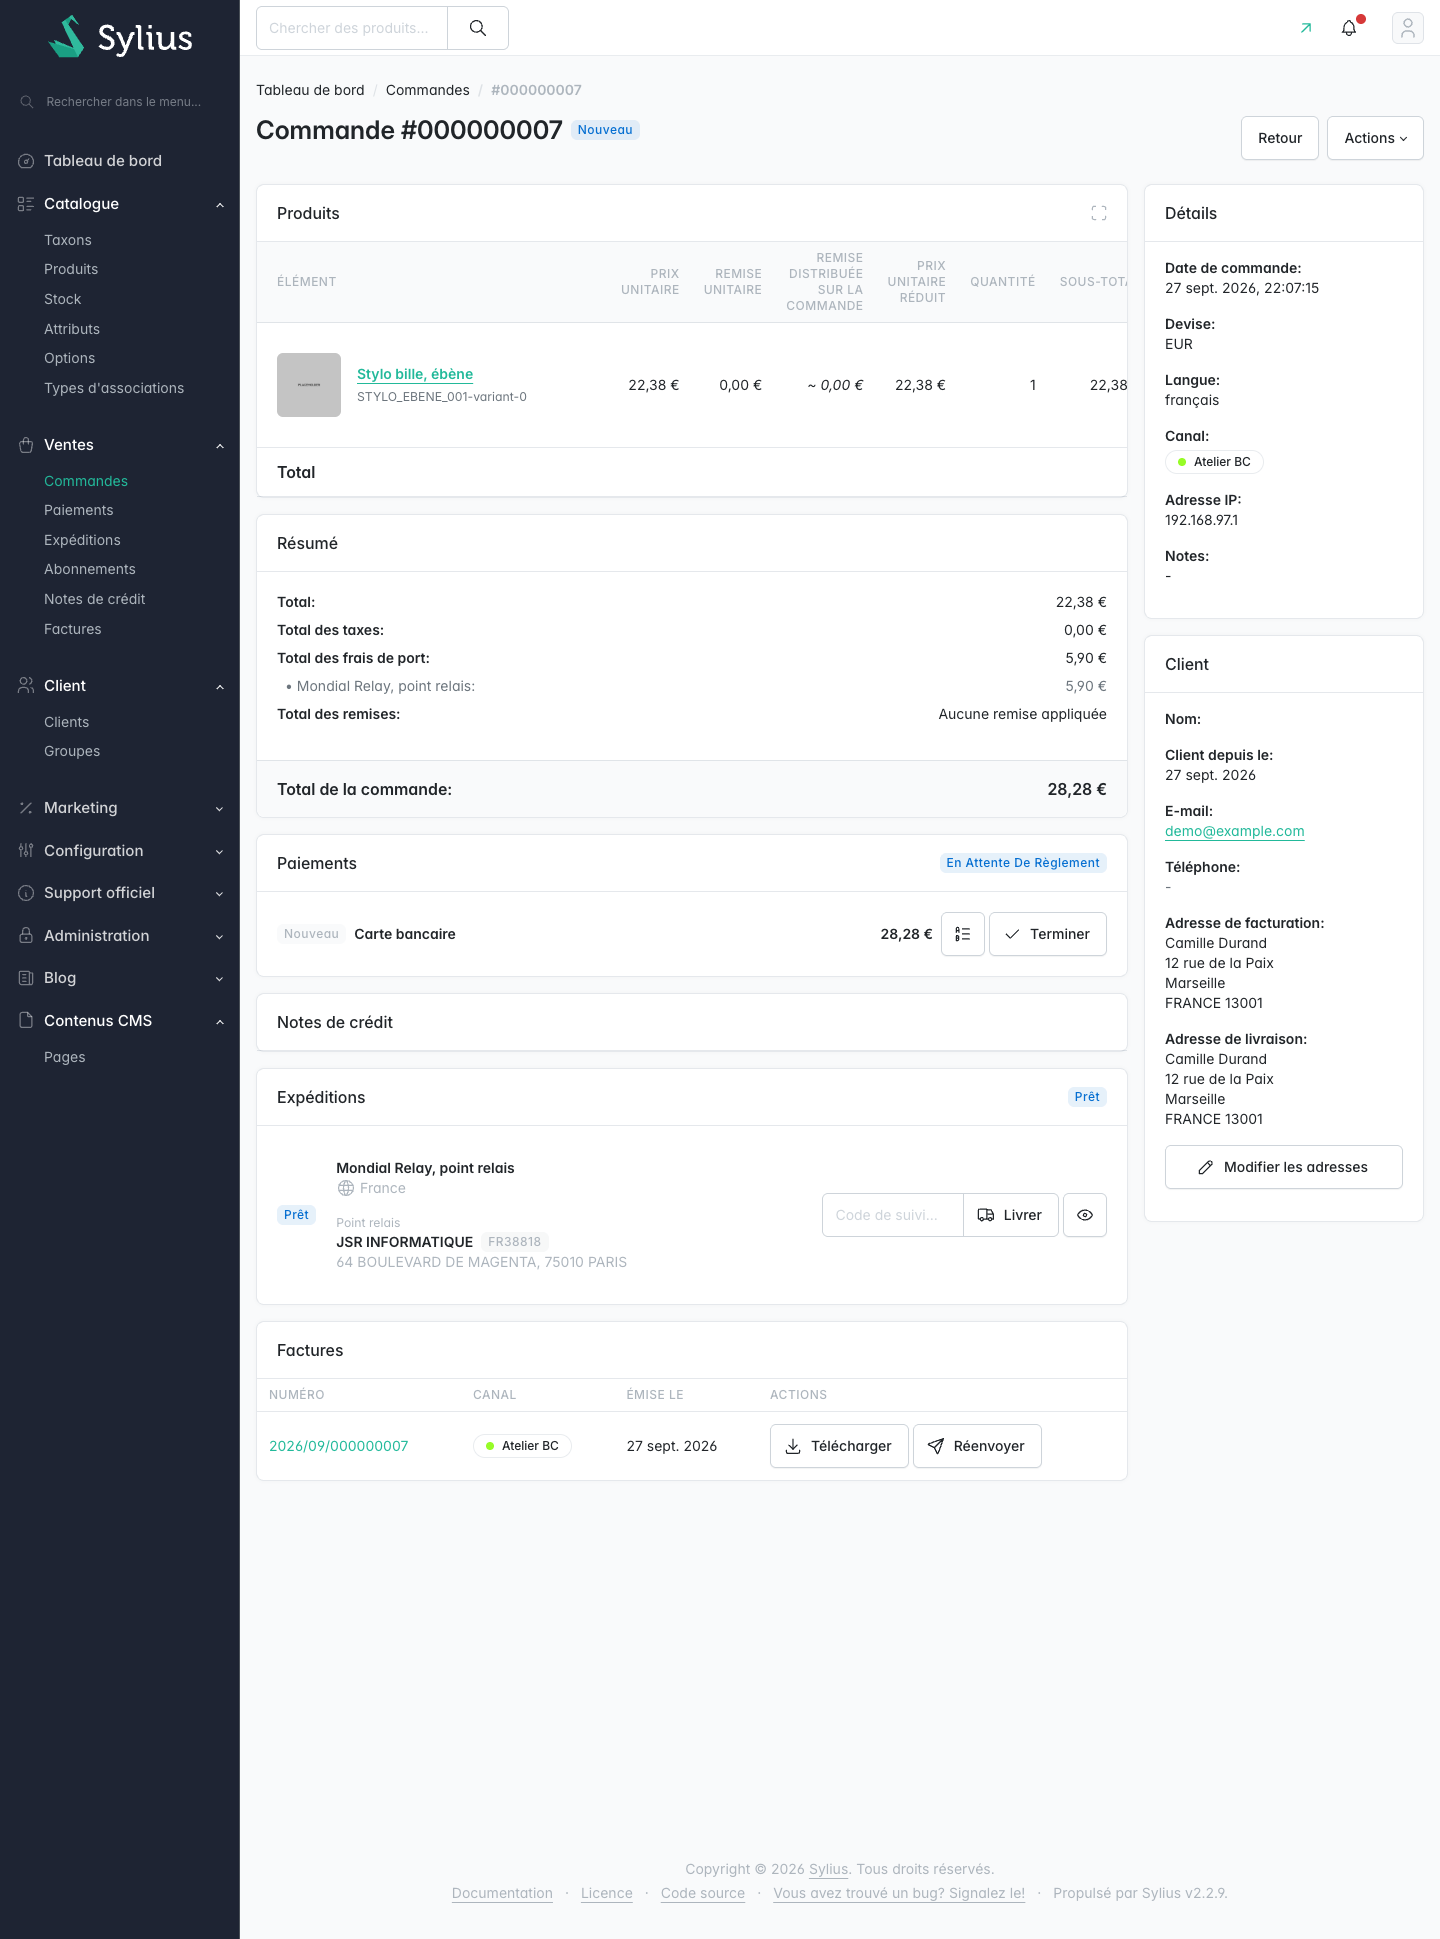
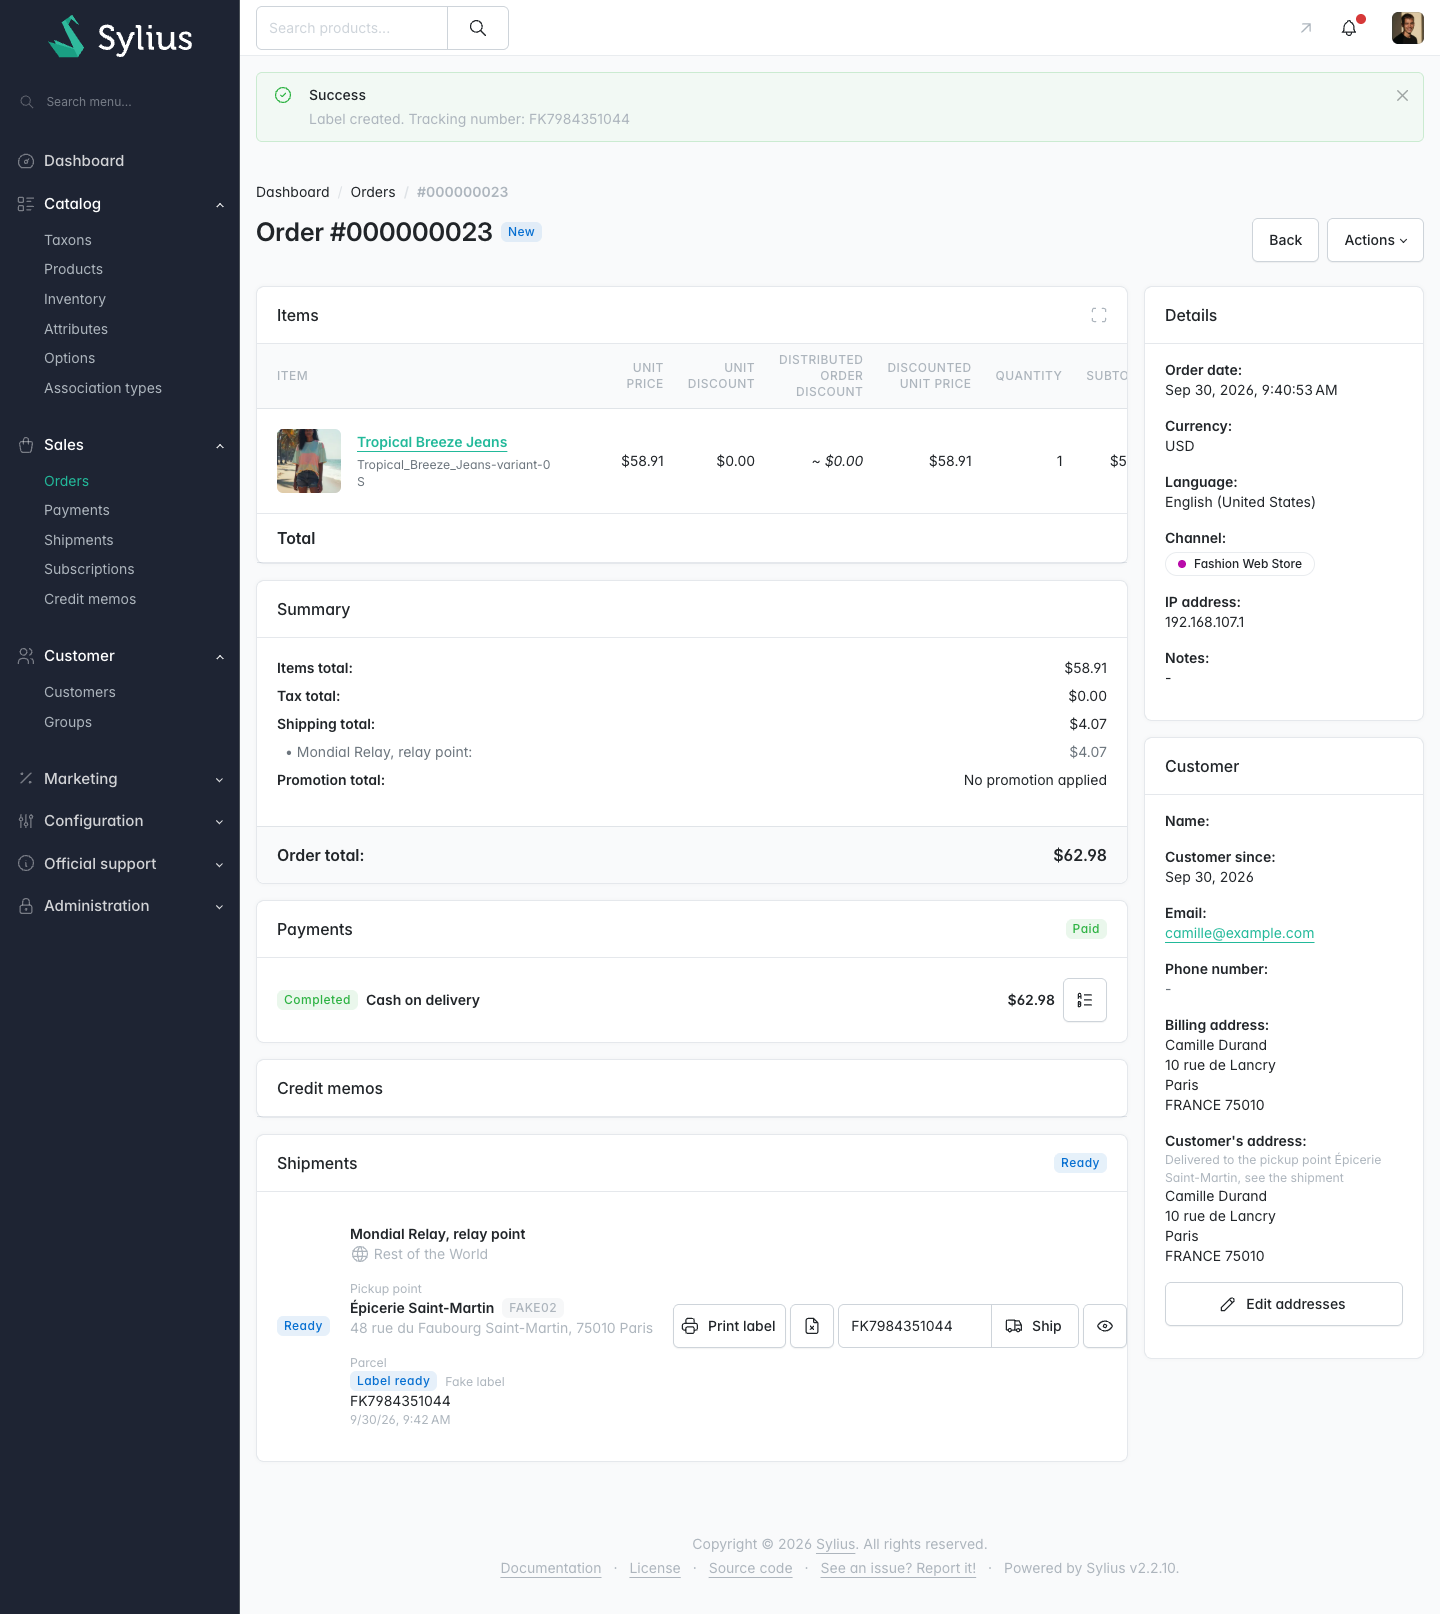
Call a pickup order's address the customer's on the admin order page, and check the docs against a fresh Sylius-Standard install
The admin customer section titles it "Customer's address" and names the point the parcel goes to. The README now says there is no Flex recipe, gives the snippets their imports, adds the assets:install step, warns about what migrations:diff also picks up and about the order to follow on a brand new project, and lists the three Sylius hookables the plugin replaces. New screenshots from a plain Sylius demo shop, in English. SECURITY.md says how to report a vulnerability privately. CONTRIBUTING covers the relay search script, the hooks rule and GitHub releases.

diff --git a/README.md b/README.md
@@ -30,6 +30,11 @@ PHP 8.4, MariaDB 11.8):
 - the map, and choosing a point from its pins
 - French address suggestions from the BAN, and the relay search centred on them
 
+**Installed from scratch** on a fresh Sylius-Standard 2.2 (Sylius 2.2.10,
+MariaDB), following this README step by step, with the fake provider: the
+whole checkout, the summary, a paid order's label and the admin pages. The
+screenshots here come from that shop.
+
 **Covered by unit tests, not yet run against the real Sendcloud:**
 
 - labels: create, print, cancel, the house number sent apart, the
@@ -62,7 +67,12 @@ method to a delivery option. An admin settings page is planned
   both: one setting per delivery option.
 - **The chosen point is kept on the shipment**, and shown on the checkout
   summary, the customer's order page and the admin order page, with the
-  carrier's own point number for the drop-off.
+  carrier's own point number for the drop-off. On the summary it takes the
+  place of the shipping address, so the customer never reads their own
+  address as where the parcel goes.
+
+  ![The checkout summary of a pickup point order](docs/images/checkout-summary.png)
+
 - **An optional map** next to the list, drawn with MapLibre on OpenStreetMap
   data. Click a pin, the point is chosen. Free map sources only, and the
   checkout works the same without it. Keyboards and screen readers stay on
@@ -122,8 +132,20 @@ A few choices worth knowing before you install it:
 
 One more thing, found on the way: Sylius declares its shipping step as a live
 component but its template never switches it on in the browser. This plugin
-replaces that one template with a fixed copy. It is the only core template it
-touches.
+replaces that one template with a fixed copy.
+
+Everything else goes through Twig hooks, and no Sylius template file is
+overridden. Besides adding its own blocks, the plugin swaps three of Sylius's
+hookables for its own, all in `config/twig_hooks.yaml`:
+
+- the shipping step's form, for the fix above;
+- the order summary's shipping address box, which shows the point for a
+  pickup point order (checkout's last step and the customer's order page);
+- the admin order page's shipping address, titled "Customer's address" for a
+  pickup point order.
+
+If your theme replaces the same hookables, yours or the plugin's wins
+depending on bundle order: check those three first.
 
 ## Requirements
 
@@ -140,7 +162,8 @@ touches.
 composer require mahoudeau/universal-shipping-for-sylius
 ```
 
-**2. Enable the bundle** in `config/bundles.php`, if Flex did not:
+**2. Enable the bundle** in `config/bundles.php`. There is no Flex recipe yet,
+so add the line yourself:
 
 ```php
 Mahoudeau\UniversalShipping\UniversalShippingPlugin::class => ['all' => true],
@@ -149,18 +172,25 @@ Mahoudeau\UniversalShipping\UniversalShippingPlugin::class => ['all' => true],
 **3. Add the fields to your entities.** The point and the parcel live on the
 shipment, the delivery option on the shipping method.
 
+Sylius-Standard already has both entities in `src/Entity/Shipping/`, mapped
+with attributes: add the lines below to them.
+
 ```php
 // src/Entity/Shipping/Shipment.php
+use Doctrine\ORM\Mapping as ORM;
 use Mahoudeau\UniversalShipping\Model\ParcelAwareInterface;
 use Mahoudeau\UniversalShipping\Model\ParcelAwareTrait;
 use Mahoudeau\UniversalShipping\Model\PickupPointAwareInterface;
 use Mahoudeau\UniversalShipping\Model\PickupPointAwareTrait;
 
+#[ORM\Entity]
+#[ORM\Table(name: 'sylius_shipment')]
 #[ORM\Index(columns: ['universal_shipping_parcel_id'], name: 'IDX_universal_shipping_parcel_id')]
 class Shipment extends BaseShipment implements PickupPointAwareInterface, ParcelAwareInterface
 {
     use ParcelAwareTrait;
     use PickupPointAwareTrait;
+    // ...
 }
 ```
 
@@ -189,6 +219,17 @@ Then generate and run the migration. It adds nullable columns only:
 bin/console doctrine:migrations:diff
 bin/console doctrine:migrations:migrate
 ```
+
+Read the generated migration before running it. `diff` compares the whole
+schema, so it also picks up anything else your project has drifted on: on a
+fresh Sylius-Standard 2.2 that's an index on Symfony Messenger's table. Keep
+or drop those lines as you would without the plugin.
+
+**On a brand new project**, set Sylius up first (`sylius:install`), then add
+the plugin. The other way round, the demo data is written before the
+plugin's columns exist, and `sylius:install` stops on "Unknown column
+'universal_shipping_delivery_option'". If that happened, generate and run the
+migration as above, then `bin/console sylius:fixtures:load`.
 
 **4. Import the routes** in `config/routes/universal_shipping.yaml`. The label
 buttons go under the admin prefix, so the admin firewall guards them. The
@@ -239,6 +280,17 @@ want. Keep the keys out of the repository.
 **6. Link a shipping method** in the admin: edit it and choose the delivery
 option in the **Universal Shipping** field. That method now asks for a point
 at checkout.
+
+**7. Publish the scripts and styles** under `public/bundles/`, then clear the
+cache. Sylius-Standard's Composer scripts already run the first command after
+every `composer require` and `composer update`; run it yourself if your
+project doesn't, and again after each upgrade. The files are plain ES modules
+and CSS: nothing to add to your Webpack Encore build.
+
+```sh
+bin/console assets:install
+bin/console cache:clear
+```
 
 ![The Universal Shipping field on a shipping method](docs/images/admin-shipping-method.png)
 
@@ -371,6 +423,9 @@ That turns on two things, each of which can be turned off alone:
   shipping step's relay search, choosing one fills the field and searches
   around that address. The list
   works with the keyboard and screen readers (the ARIA combobox pattern).
+
+  ![Address suggestions in the relay search](docs/images/checkout-suggestions.png)
+
   Without JavaScript the form is the same as before. Needs the shop routes
   from installation step 4.
 - **A relay search around the real address** (`geocode_pickup_search`). The
@@ -523,8 +578,11 @@ The plugin never marks a shipment shipped on its own. That stays a click on
 Implement `PickupPointProviderInterface` and give it a code:
 
 ```php
+use Mahoudeau\UniversalShipping\DeliveryOption\DeliveryOption;
+use Mahoudeau\UniversalShipping\Model\PickupPoint;
 use Mahoudeau\UniversalShipping\Provider\AsPickupPointProvider;
 use Mahoudeau\UniversalShipping\Provider\PickupPointProviderInterface;
+use Mahoudeau\UniversalShipping\Provider\PickupPointQuery;
 
 #[AsPickupPointProvider('my_carrier')]
 final class MyCarrierProvider implements PickupPointProviderInterface

diff --git a/CONTRIBUTING.md b/CONTRIBUTING.md
@@ -55,7 +55,7 @@ src/Address/          The optional address module: provider contract, finder, th
 src/Form/Extension/   The checkout picker and the admin field
 src/Twig/             The map settings and the address suggestion URL, exposed to templates
 templates/            Shop and admin templates, plugged in through Twig hooks
-public/               The map and address scripts and styles, and vendored libraries (see public/vendor/README.md)
+public/               The map, address and relay search scripts and styles, and vendored libraries (see public/vendor/README.md)
 config/               Services, Twig hooks and routes
 tests/Unit/           One test class per class, mirroring src/
 ```
@@ -67,9 +67,13 @@ tests/Unit/           One test class per class, mirroring src/
 - A new provider comes with tests against a recorded answer, like
   `SendcloudPickupPointProviderTest`.
 - User-visible changes get a line in `CHANGELOG.md`, under **Unreleased**.
-- No JavaScript unless the server really cannot do it. The map and the
-  address suggestions are the two exceptions, and both only add to a form
-  that works without them. Plain ES modules, no build step, no CDN.
+- No JavaScript unless the server really cannot do it. The map, the address
+  suggestions and the relay search's small helper are the exceptions, and
+  each only adds to a form that works without it. Plain ES modules, no build
+  step, no CDN.
+- Sylius's own screens are changed through Twig hooks, never by overriding a
+  template file. Replacing one of Sylius's hookables is the last resort, and
+  goes in the README's list under "How it works".
 
 ## Releasing
 
@@ -80,6 +84,9 @@ tests/Unit/           One test class per class, mirroring src/
    date.
 3. A "Release x.y.z" commit, then an annotated tag `vx.y.z` with a one-line
    summary.
+4. Once the tag is pushed, a GitHub release on it, titled with the version
+   and carrying that version's CHANGELOG section:
+   `gh release create vx.y.z --title x.y.z --notes-file notes.md`.
 
 ## Pull requests
 

diff --git a/SECURITY.md b/SECURITY.md
@@ -1,0 +1,36 @@
+# Security
+
+## Reporting a vulnerability
+
+Please don't open a public issue. Report it privately on GitHub instead:
+**Security > Report a vulnerability** on this repository, or
+[this link](https://github.com/mahoudeau/universal-shipping-for-sylius/security/advisories/new).
+Only the maintainer sees it.
+
+Say what an attacker can do, on which version, and how to reproduce it. A
+proof of concept against a local shop is welcome; please never test against a
+shop you don't run.
+
+You get an answer within a week. A confirmed issue is fixed in a patch release
+first, then published as a GitHub security advisory crediting you, unless you'd
+rather not be named.
+
+## Supported versions
+
+The plugin is still 0.x: only the latest release gets fixes. Upgrading within
+0.x is described in the [CHANGELOG](CHANGELOG.md).
+
+## What this plugin exposes
+
+Worth knowing when you review a shop that runs it:
+
+- **The Sendcloud webhook** (`/universal-shipping/webhooks/sendcloud`) is
+  public by design. Every call must carry a valid signature made with your
+  Sendcloud secret key, or it is refused.
+- **The address suggestion route** (`/universal-shipping/address/suggest`) is
+  public and asks the address provider on the server's behalf. Answers are
+  cached, but put a rate limiter in front of it if you expect abuse.
+- **Label actions** sit under the admin prefix, behind the admin firewall, and
+  each one checks a CSRF token.
+- **The pickup point** a customer sends back is only an id from the list the
+  server built. An address posted by the browser is never trusted.
